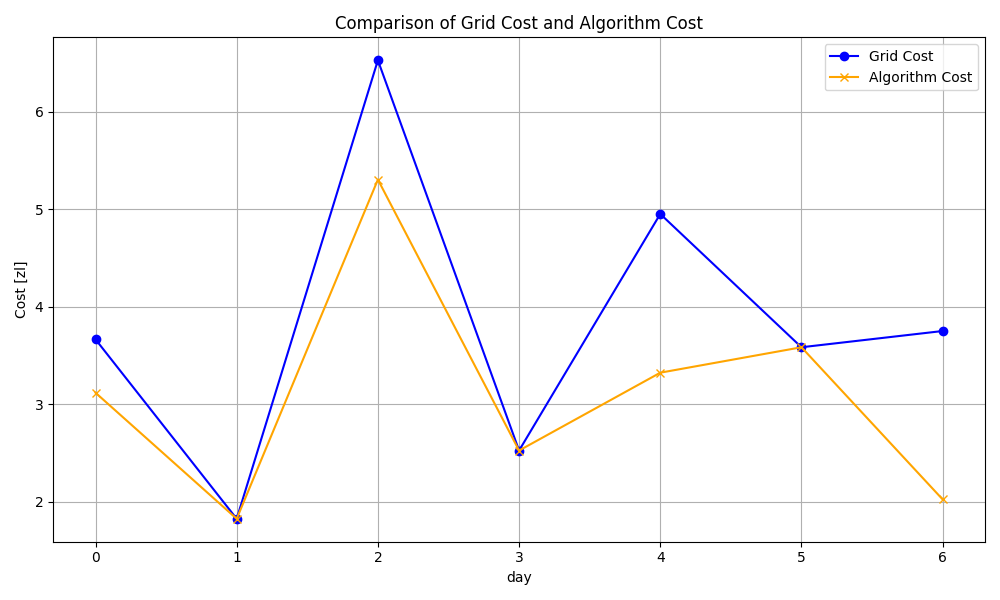
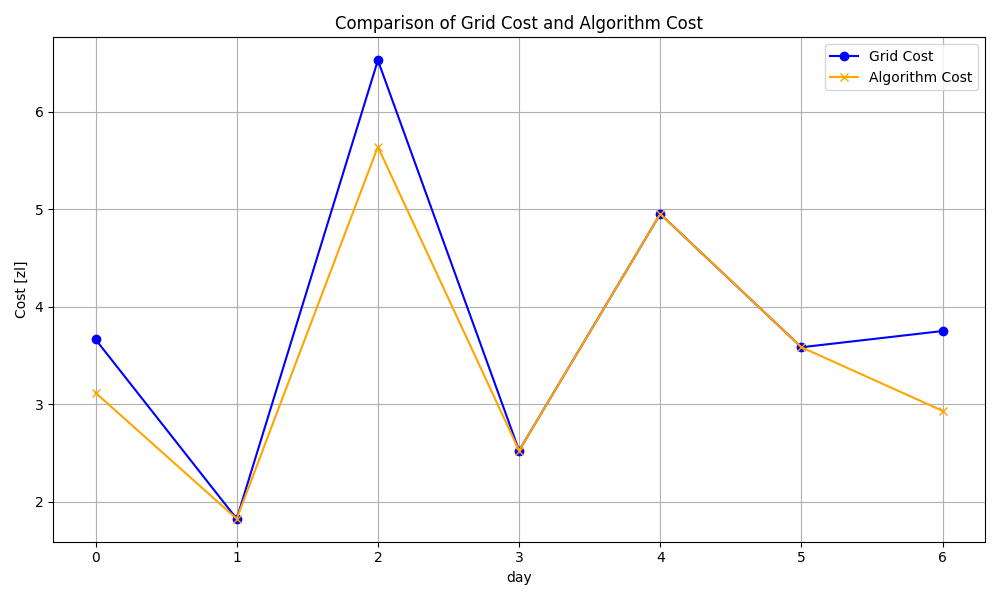
corrected bug in krzysieg_alg - wrong charge_level was being taken

diff --git a/backend/src/battery_handler/krzysiek_alg/krzysieg_alg.py b/backend/src/battery_handler/krzysiek_alg/krzysieg_alg.py
@@ -154,7 +154,10 @@ class KAlg:
 
         if cost_without_battery < min_grid_cost:
             print("CHARGING BATTERY IS NOT WORTH IT -_-")
+            self.charge_level = self.charge_level
             return [], [time for time, _, _ in consumption_cost_lst], cost_without_battery
+        else:
+            self.charge_level = self.b_max_capacity - needed_energy
 
         best_sol = [(time, charge_amount) 
                         for charge_amount, (time, _, _) in 

diff --git a/backend/src/calculator.py b/backend/src/calculator.py
@@ -161,7 +161,7 @@ def krzysieg_alg():
                               battery_cost_per_kwh)
         all_from_grid_cost.append(grid_cost)
 
-        charge_level = battery.capacity - energy_needed
+        charge_level = k_alg.charge_level
 
     return all_energy_needed, all_from_grid_cost, all_from_alg_cost
 
